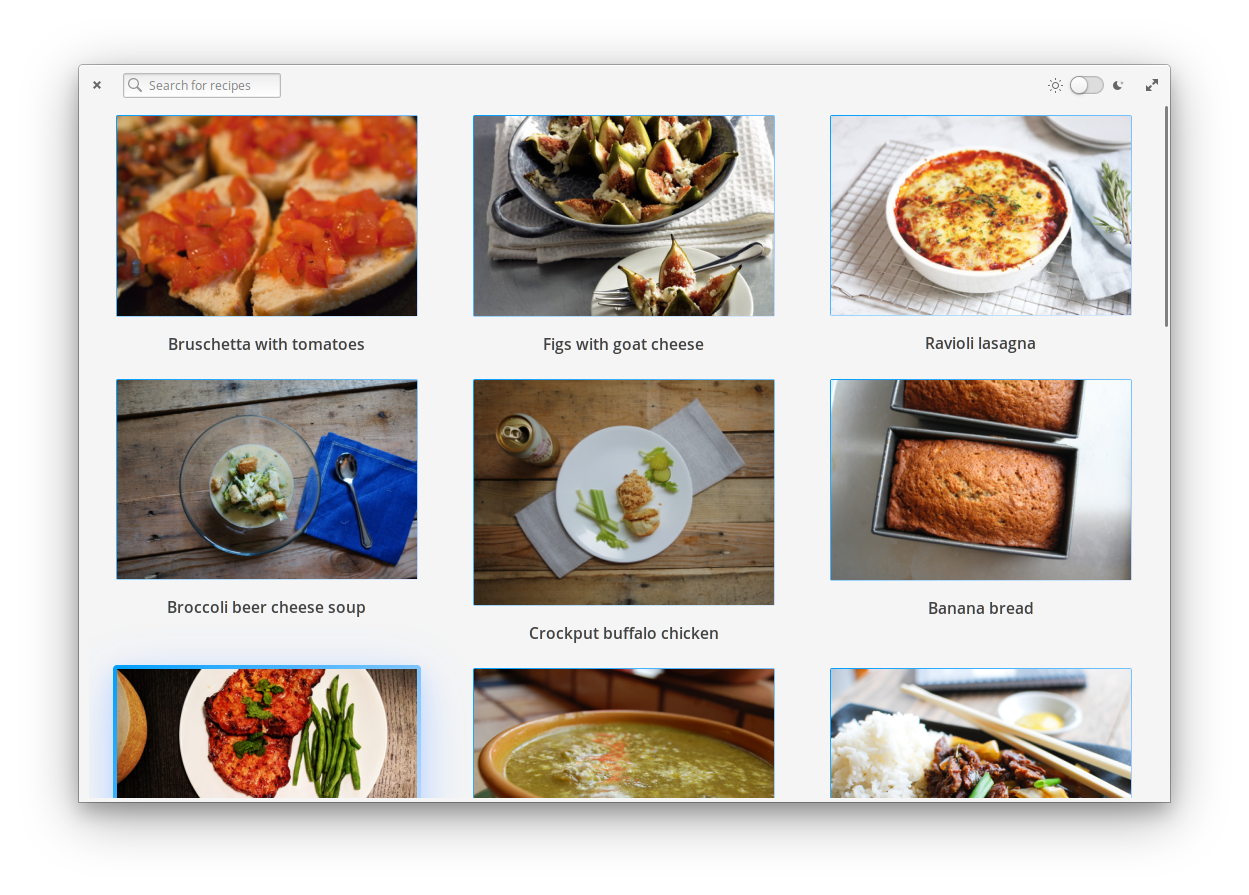
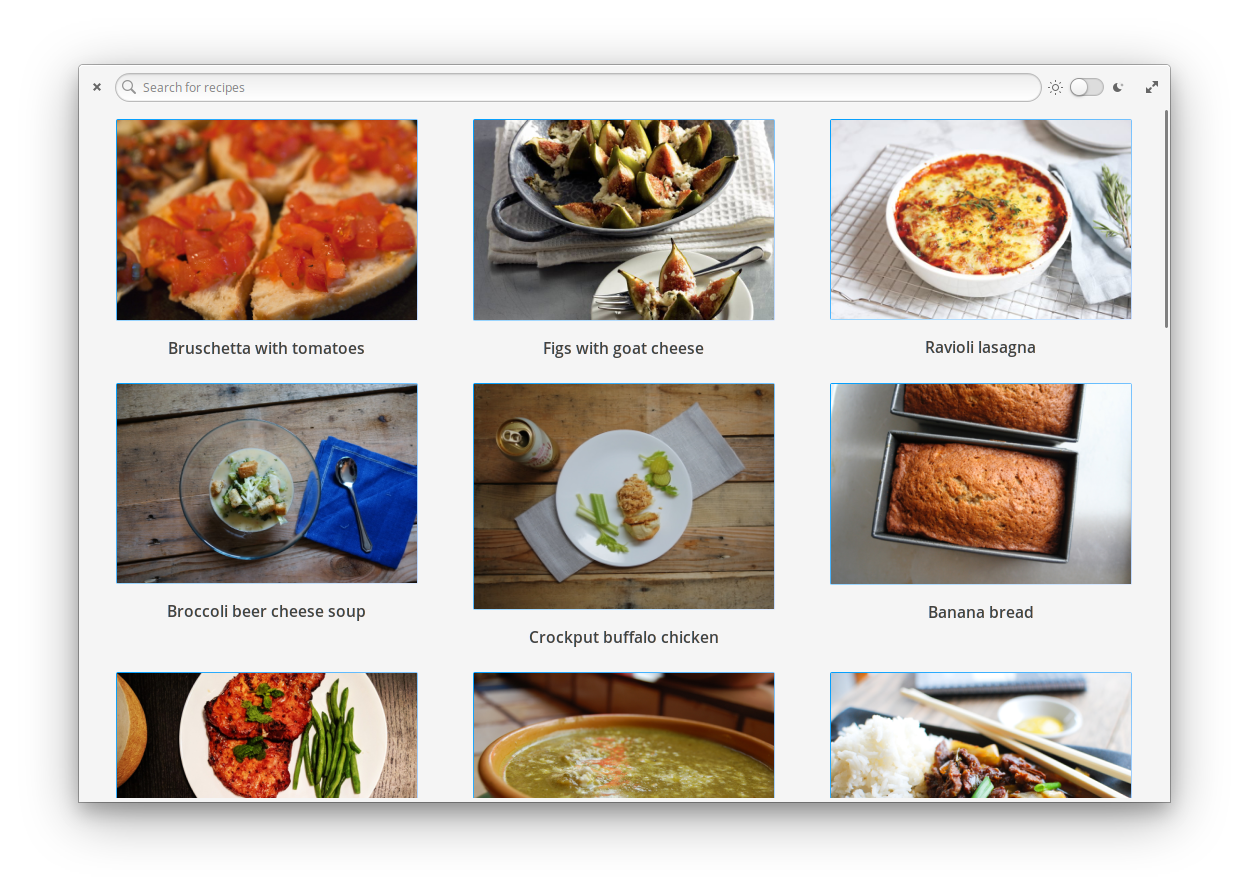
Added styling for the search entry

diff --git a/data/application.css b/data/application.css
@@ -27,3 +27,8 @@
     padding: 5px 10px;
     background: none;
 }
+
+.search-entry {
+   padding:5px;
+   border-radius:20px;
+}
